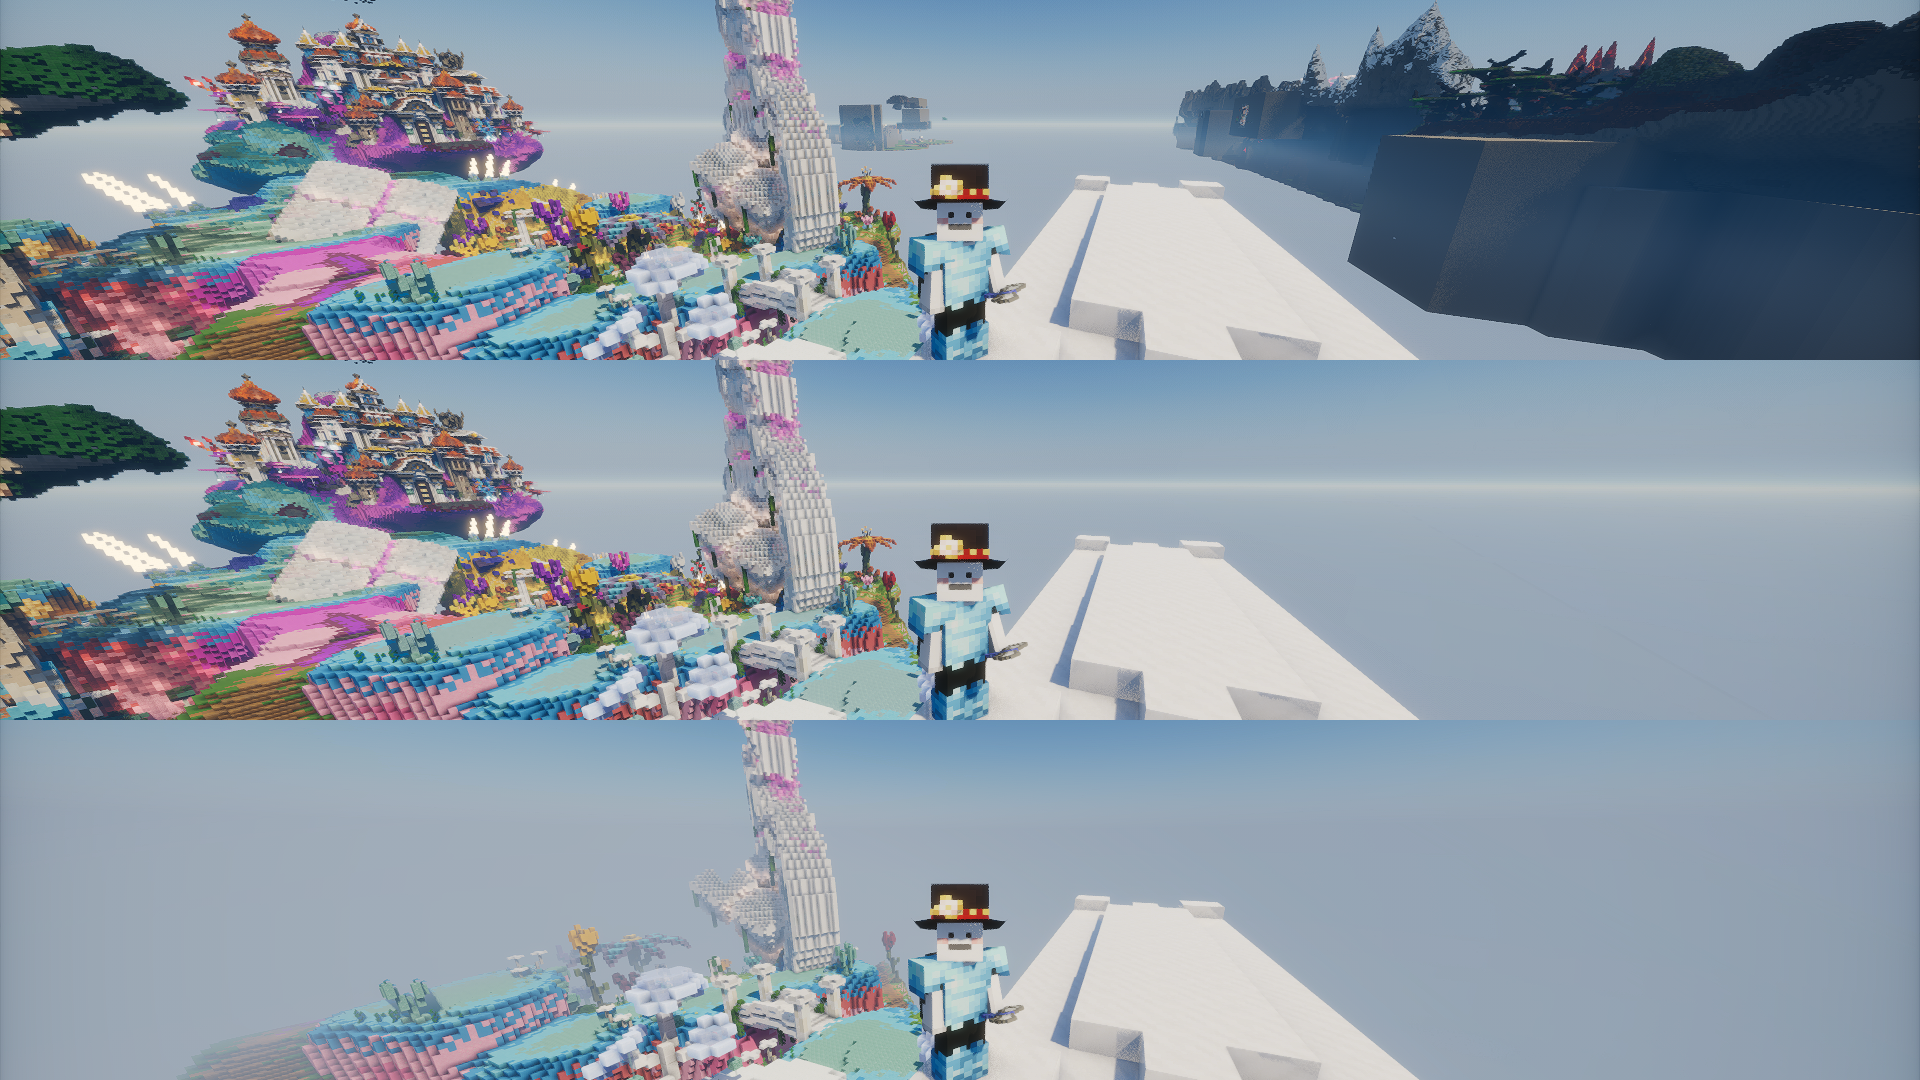
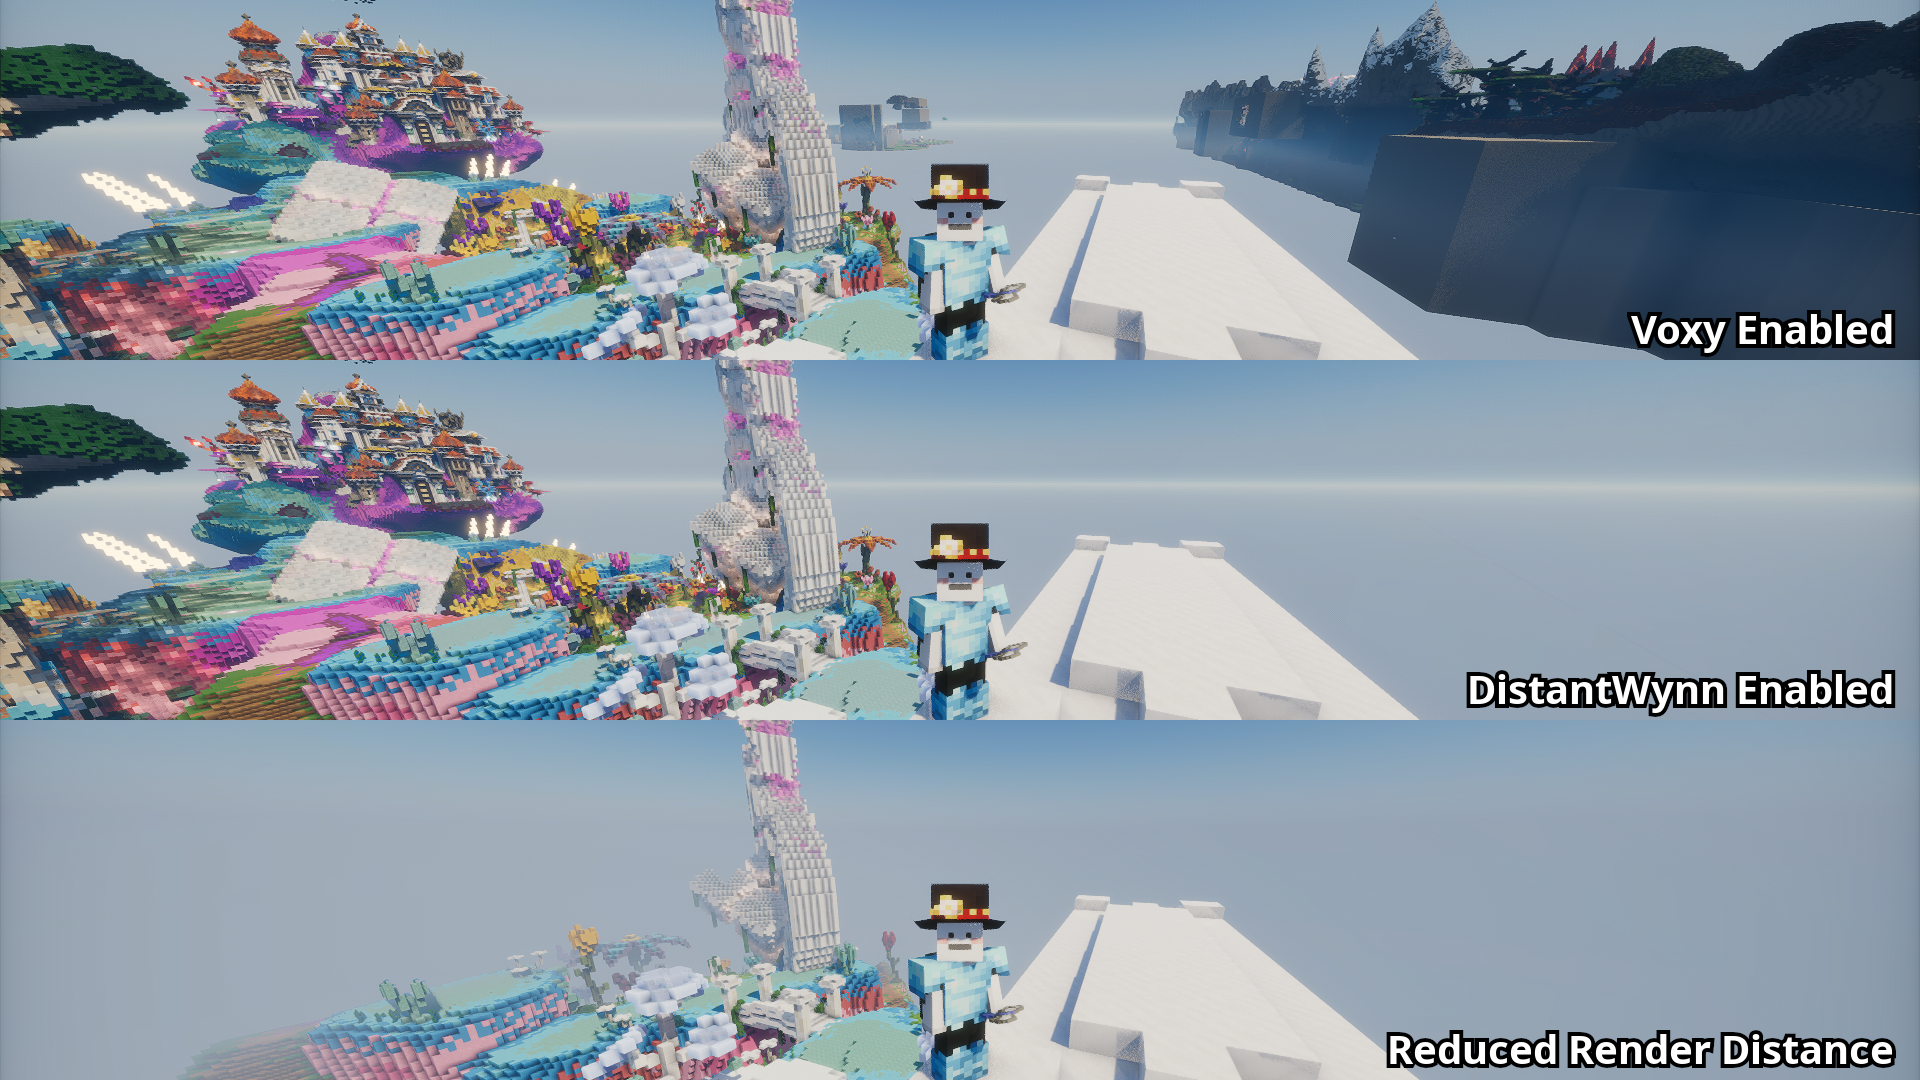
chore(README): update demo image

Changed region(s): [[0.7188, 0.9472, 1.0, 1.0], [0.75, 0.6111, 1.0, 0.6722], [0.8438, 0.275, 1.0, 0.3361]]

diff --git a/README.md b/README.md
@@ -3,9 +3,6 @@
 Dynamically adjust the visible region based on the player's location in Wynncraft.
 
 ![demo](./demo.png)
-1. Voxy enabled, DistantWynn disabled
-2. Voxy enabled, DistantWynn enabled
-3. Voxy disabled
 
 ## Features
 
